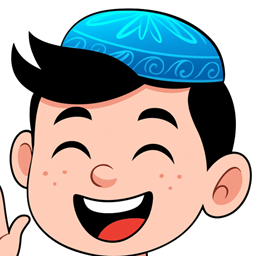
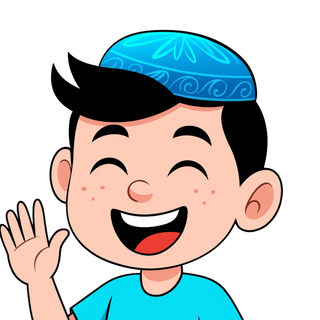
Балақайдың аватары: басы толық көрінетін етіп қайта қиылды
- balaqai_face.png айналасына бос орын қалдырылды (тақия мен шаш кесілмейді)
- Қосымша белгішелері жаңа суретпен жаңартылды
- Service worker кэші ulan-v4

diff --git a/sw.js b/sw.js
@@ -1,7 +1,7 @@
 // «Ұлан digital» – қосымша (PWA) ретінде жұмыс істеуге арналған Service Worker.
 // Беттің өзі әрқашан желіден алынады (жаңа нұсқа бірден көрінеді),
 // желі болмаса – соңғы сақталған нұсқасы ашылады.
-const CACHE = 'ulan-v3';
+const CACHE = 'ulan-v4';
 const SHELL = [
   '/',
   '/balaqai.png',
